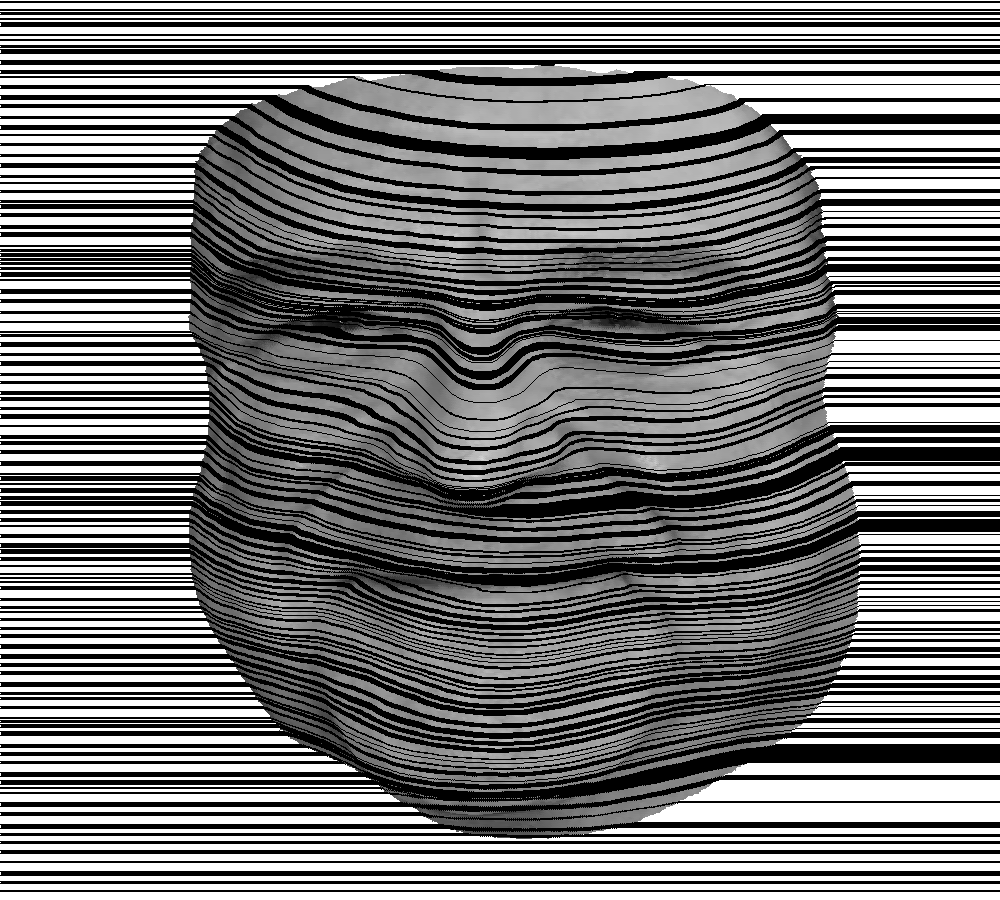
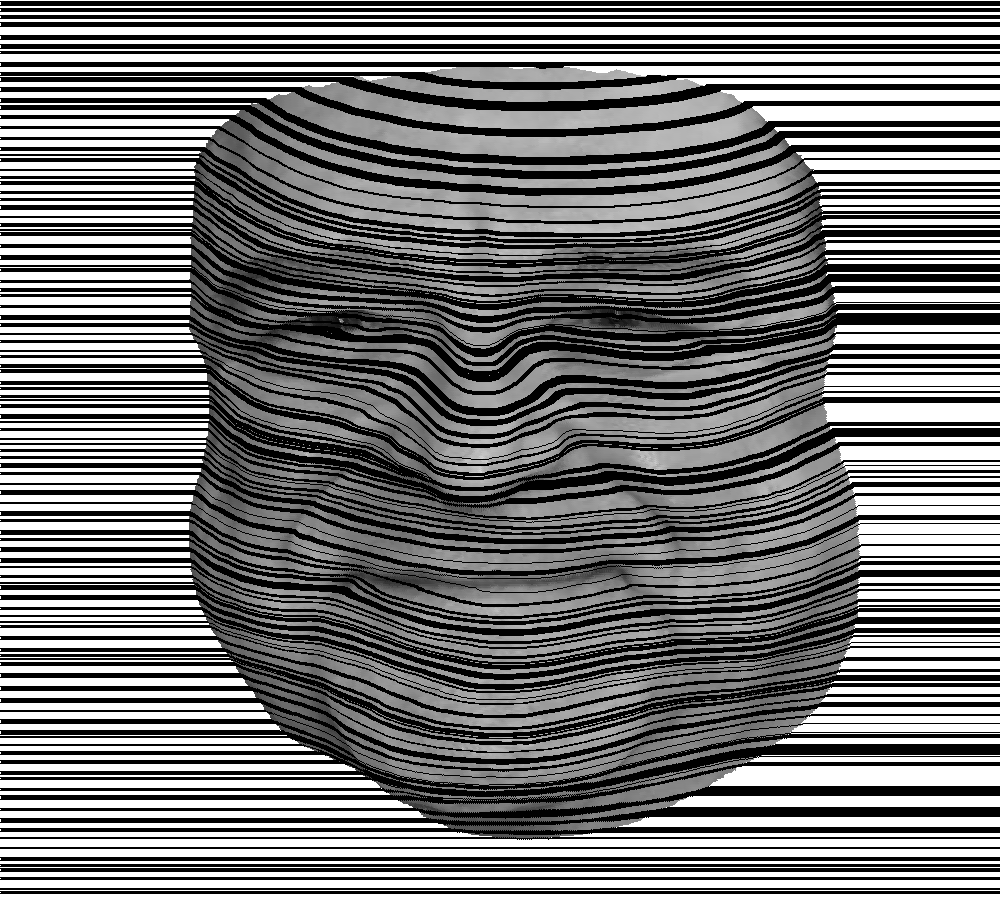
Updated Bresenham Line algorithm for colored Images

diff --git a/example.py b/example.py
@@ -16,6 +16,7 @@ from modules import Surface
 from modules import Plane
 from modules import Voxeliser
 from modules import BresenhamAlgo
+from modules import imageProcessing as processor
 
 # Return Random list of y corrdinated for lines
 def getRandomLinesList( len,start=1,maxInterval=10):
@@ -154,6 +155,10 @@ def createArt(displacementMap, img , scale =0.25  ):
 
 	print ("Create Art being called")
 
+	isColor = False
+	if len(img.shape) >= 3:
+		isColor = True
+
 	scaleA = 0.25
 	scaleB = 0.2
 
@@ -284,12 +289,13 @@ def Test():
 
 if __name__ == '__main__':
 
-	Test()
-	print ("testing Over")
+	# Test()
+	# print ("testing Over")
 
 	# This variable intiates html display of surafce using plotly
 	DisplaySurface = bool(False)
-	grayScale = bool(True)
+	backgroundImage = bool(True)
+	outputImage = "nonColored"
 
 	Writer = Reader.writer()
 
@@ -331,26 +337,36 @@ if __name__ == '__main__':
 	# print("Total number of Faces surface 1 ",len(surface.Faces))
 
 
-	disparityMap, graScaleImage = Voxeliser.Voxeliser.getDisparitytMap(surface)
+	disparityMap, colorImage = Voxeliser.Voxeliser.getDisparitytMap(surface)
 	print ("disparity Map Shape",disparityMap.shape)
 
-	## Grascale to Black and white
+	Writer.writeImage('Potrait.png',colorImage)
+
+	grayScaleImage = processor.IP.convertColorToGrayscale(colorImage)
+
+	# Grascale to Black and white
 	# graScaleImage = BlackAndWhite(graScaleImage)
 
 	## Verifying the Voxelisation visually
 	Art=testDisplacementMap(disparityMap)
-	Writer.writeImage('graScaleImage_1.png',graScaleImage)
 
+	Writer.writeImage('graScaleImage_1.png',grayScaleImage)
 	Writer.writeImage('DisplacemntMapFace_1.png',Art)
 
 
-	if grayScale == False:
-		graScaleImage = np.zeros((graScaleImage.shape[0],graScaleImage.shape[1]) ,dtype = np.uint8)
-		graScaleImage.fill(255)
+	if backgroundImage == False:
+		baseImage.fill(255)
+	else:
+		if outputImage == "colored":
+			baseImage = colorImage
+		else:
+			baseImage = grayScaleImage
+
+
 
 
 	#### Creating the Art
-	Art = createArt(displacementMap = disparityMap, img = graScaleImage )
+	Art = createArt(displacementMap = disparityMap, img = baseImage )
 
 	#### Display the image
 	Writer.writeImage('FacePotrait_3.png',Art)

diff --git a/modules/Voxeliser.py b/modules/Voxeliser.py
@@ -100,8 +100,9 @@ class Voxeliser:
 
 		# Displacement Map for size (x,y)
 		disparityMap = np.zeros((l,b) ,dtype = float)
-		graScaleImage = np.zeros((l,b) ,dtype = np.uint8)
-		graScaleImage.fill(255)
+
+		colorImage = np.zeros((l,b,3) ,dtype = np.uint8)
+		colorImage.fill(255)
 
 		minVector = vector.vector3D(float(-1),float(-1),float(-1))
 		maxZ = max(Z)
@@ -113,8 +114,8 @@ class Voxeliser:
 
 		for face in Faces:
 
-			colorValue = int((Texture[face[2]][0]+ Texture[face[2]][1]+Texture[face[2]][2])/3)
-
+			# colorValue = int((Texture[face[2]][0]+ Texture[face[2]][1]+Texture[face[2]][2])/3)
+			colorValue = [Texture[face[2]][0],Texture[face[2]][1],Texture[face[2]][2]]
 			# print(colorValue)
 			
 			vec1 = vector.vector3D(X[face[0]],Y[face[0]],Z[face[0]])
@@ -139,9 +140,9 @@ class Voxeliser:
 				value = int ( z )
 				if value > disparityMap[l-1-y][x]:
 					disparityMap[l-1-y][x]= value
-					graScaleImage[l-1-y][x] = colorValue
+					colorImage[l-1-y][x] = colorValue
 
-		return disparityMap, graScaleImage
+		return disparityMap, colorImage
 
 
 

diff --git a/modules/BresenhamAlgo.py b/modules/BresenhamAlgo.py
@@ -12,6 +12,10 @@ class bresenhamLine:
 
 		vertexes =[] 
 
+		isColor = False
+		if len(img.shape) >= 3:
+			isColor = True
+
 		if len(argv) > 2:
 			return img
 
@@ -55,15 +59,15 @@ class bresenhamLine:
 
 			### Slope less than 1
 			if flag == True :
-				img[ y1 + count][x1+i] = np.uint8(0)
+				img[ y1 + count][x1+i] = np.uint8(0) if isColor == False else np.zeros(3 , dtype = np.uint8)
 
 			### slope greater than 1
 			else:
 				#### slope negative check 
 				if slopenegative == False:
-					img [y2 - i][x2 - count] = np.uint8(0)
+					img [y2 - i][x2 - count] = np.uint8(0) if isColor == False else np.zeros(3 , dtype = np.uint8)
 				else:
-					img [y2 +i ][x2 - count] = np.uint8(0)
+					img [y2 +i ][x2 - count] = np.uint8(0) if isColor == False else np.zeros(3 , dtype = np.uint8)
 
 
 			if p >=0:

diff --git a/modules/imageProcessing.py b/modules/imageProcessing.py
@@ -1,0 +1,17 @@
+import numpy as np 
+
+class IP:
+	def __init__ (self):
+		print (" image Processing initiated")
+
+	def convertColorToGrayscale( img ):
+
+		l = img.shape[0]
+		b = img.shape[1]
+
+		newArray = np.zeros((l,b),dtype = np.uint8 )
+		for i in range (l):
+			for j in range (b):
+				newArray[i][j] = np.uint8(np.mean(img[i,j,:]))
+
+		return newArray
